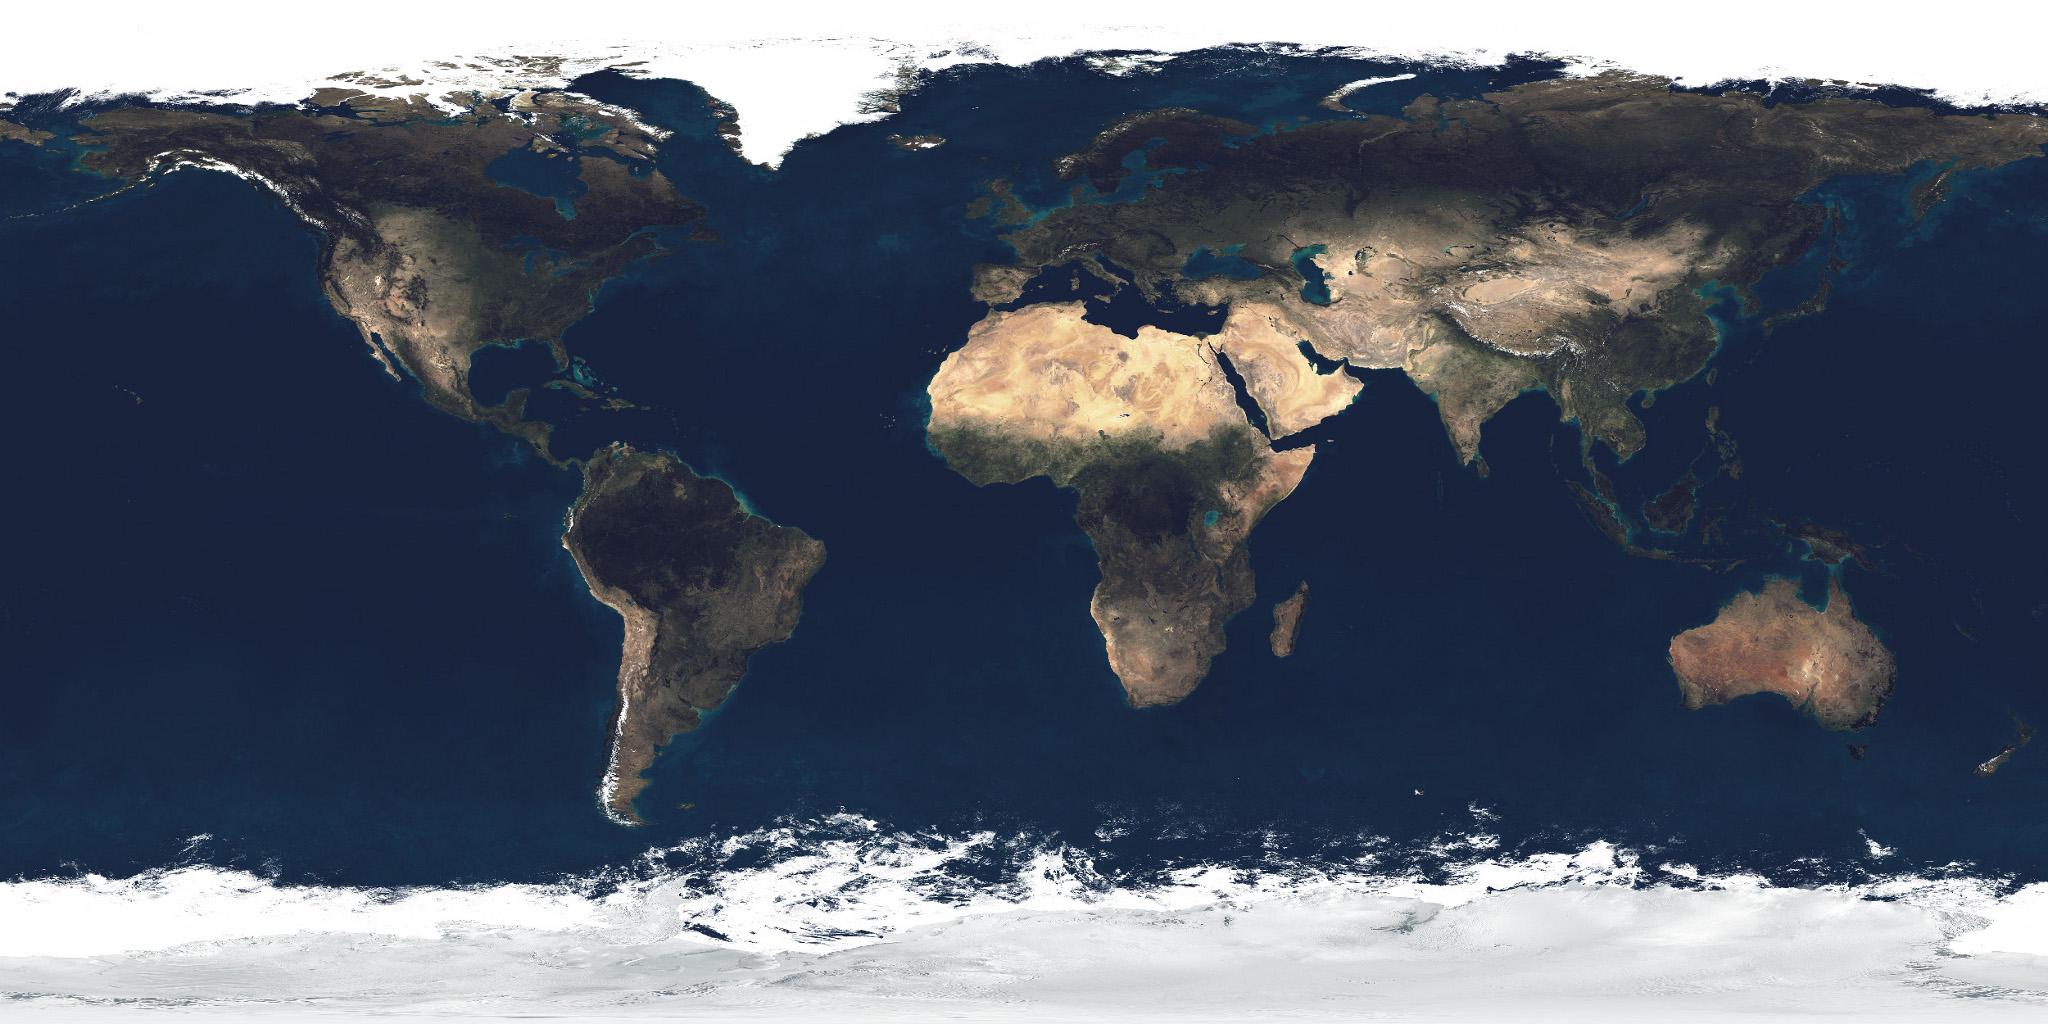
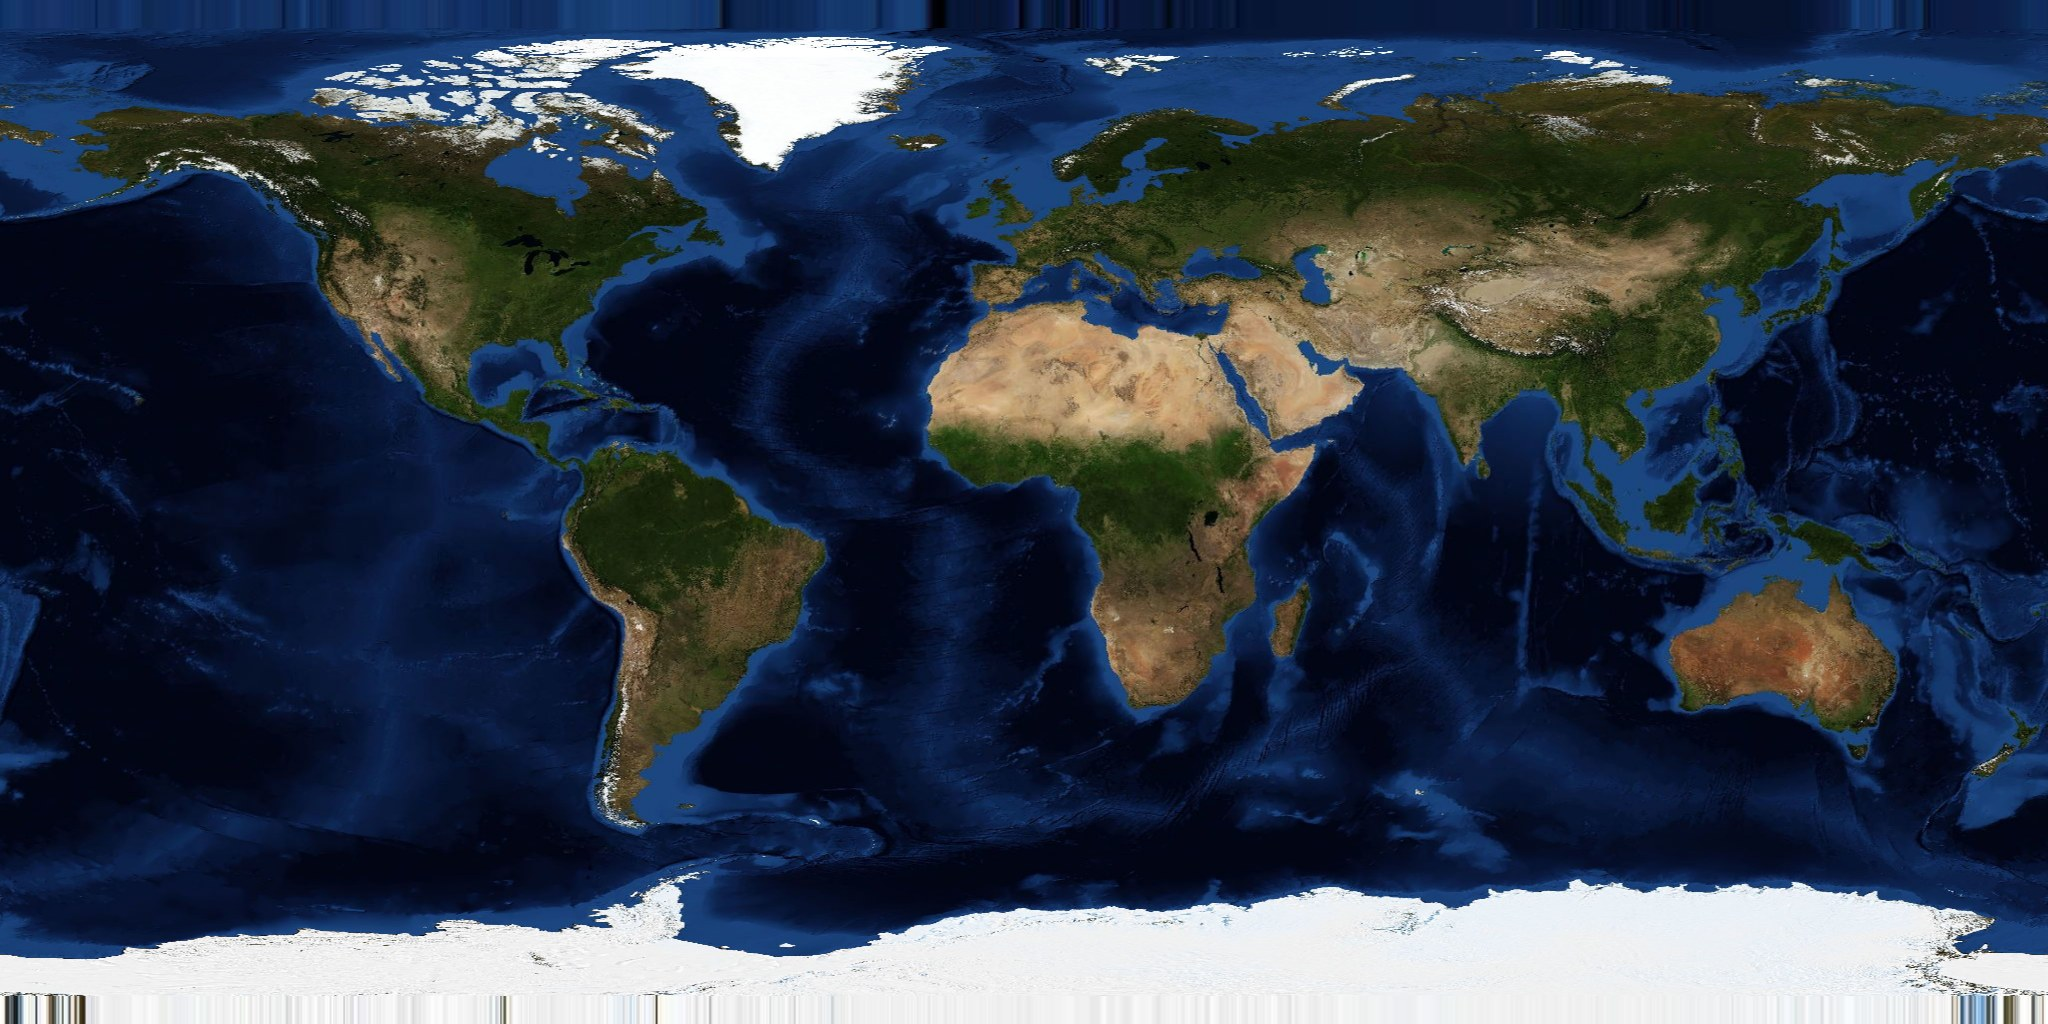
Generate base globe texture from the same GIBS BlueMarble source
The embedded base sphere previously used Natural Earth III — a
different dataset than the streamed GIBS BlueMarble tiles, so any
exposed fallback looked like a different (brighter) image, which is
what "tiles swapping between two images" really was.

The new 2048x1024 equirect texture is built offline from the GIBS z3
global grid (64 tiles, bilinear reprojection from Web Mercator), so
the fallback and the tile layer are the same imagery under the same
tint. README attribution updated accordingly.

diff --git a/web/index.html b/web/index.html
@@ -17,10 +17,10 @@
 <div id="app"><canvas id="msdos-canvas"></canvas></div>
 <div id="loading">LOADING MIAOSUAN DOS…</div>
 <script type="module">
-  import init from './msdos.js?v=505e8fdf';
+  import init from './msdos.js?v=0712ba6c';
   // wasm 以 gzip 预压缩分发（绕过 CF Pages 25MiB 单文件限制），浏览器端解压
   async function boot() {
-    const resp = await fetch('./msdos_bg.505e8fdf.wasm.gz');
+    const resp = await fetch('./msdos_bg.0712ba6c.wasm.gz');
     if (!resp.ok) throw new Error('wasm 下载失败: HTTP ' + resp.status);
     const ds = new DecompressionStream('gzip');
     const inflated = await new Response(resp.body.pipeThrough(ds)).arrayBuffer();

diff --git a/README.md b/README.md
@@ -126,7 +126,7 @@ curl -s -o data/pearl_harbor.osm --data-urlencode "data@query.overpassql" \
 | 内容 | 许可 | 来源 |
 | --- | --- | --- |
 | 地图数据（运行时瓦片） | [ODbL](https://opendatacommons.org/licenses/odbl/) | © OpenStreetMap contributors；瓦片来自 [OpenFreeMap](https://openfreemap.org)（© OpenMapTiles） |
-| 底图球贴图 `assets/earth_2048.jpg` | 公有领域 | Natural Earth III by Tom Patterson ([shadedrelief.com](https://www.shadedrelief.com))，经 [three.js](https://github.com/mrdoob/three.js) examples 分发；[Natural Earth 条款](https://www.naturalearthdata.com/about/terms-of-use/) |
+| 底图球贴图 `assets/earth_2048.jpg` | 公有领域（NASA 开放数据） | 由 NASA GIBS `BlueMarble_ShadedRelief_Bathymetry` z3 全球瓦片离线拼贴并重投影至 equirectangular 生成（与瓦片流同源，保证露底时影像一致）；[GIBS 使用指引](https://nasa-gibs.github.io/gibs-api-docs/access-basics/) |
 | 地球贴图瓦片（运行时） | 公有领域（NASA 政策） | [NASA GIBS](https://nasa-gibs.github.io/gibs-api-docs/) `BlueMarble_ShadedRelief_Bathymetry`，z0-8 WMTS/XYZ |
 | docs/ 截图 | 本项目 MIT（含上述公有领域贴图与 ODbL 数据的可视化，署名如下） | 自渲染 |
 | Rust 依赖（462 个） | MIT / Apache-2.0 / Unicode-3.0 / Zlib / ISC / BSD / CDLA-Permissive-2.0 等宽松许可，无 copyleft 组件 | `cargo metadata` 审计 |
